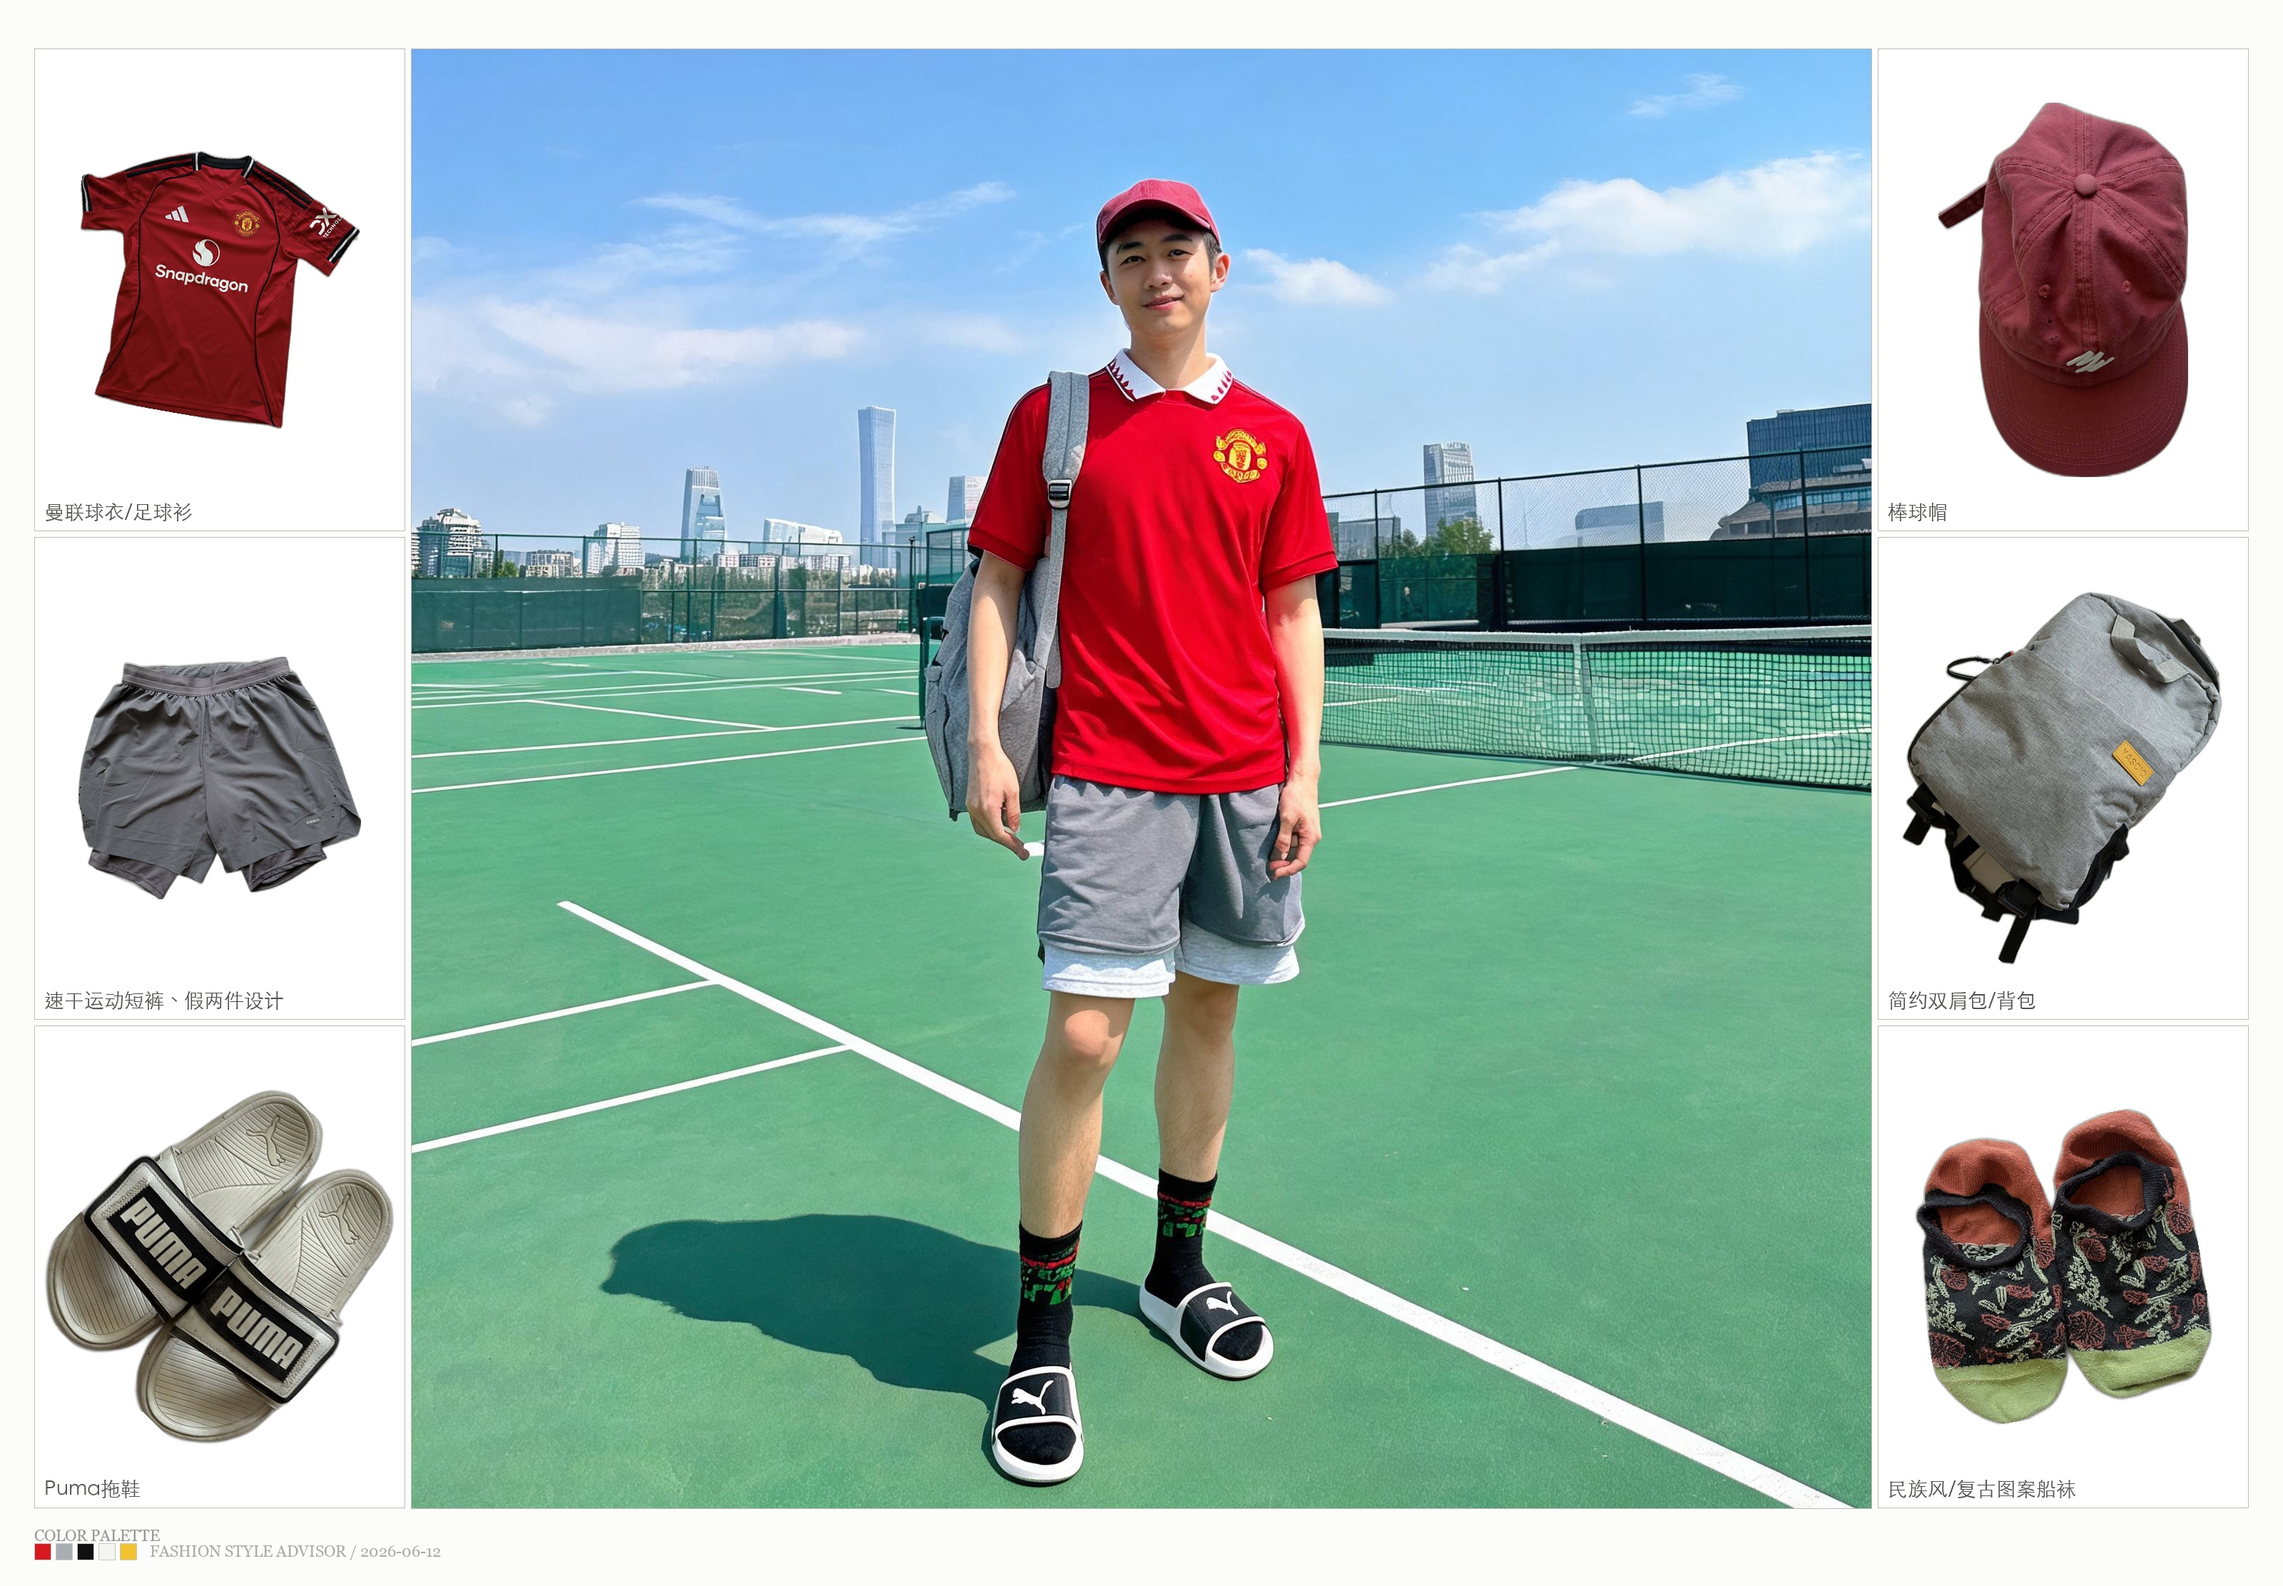
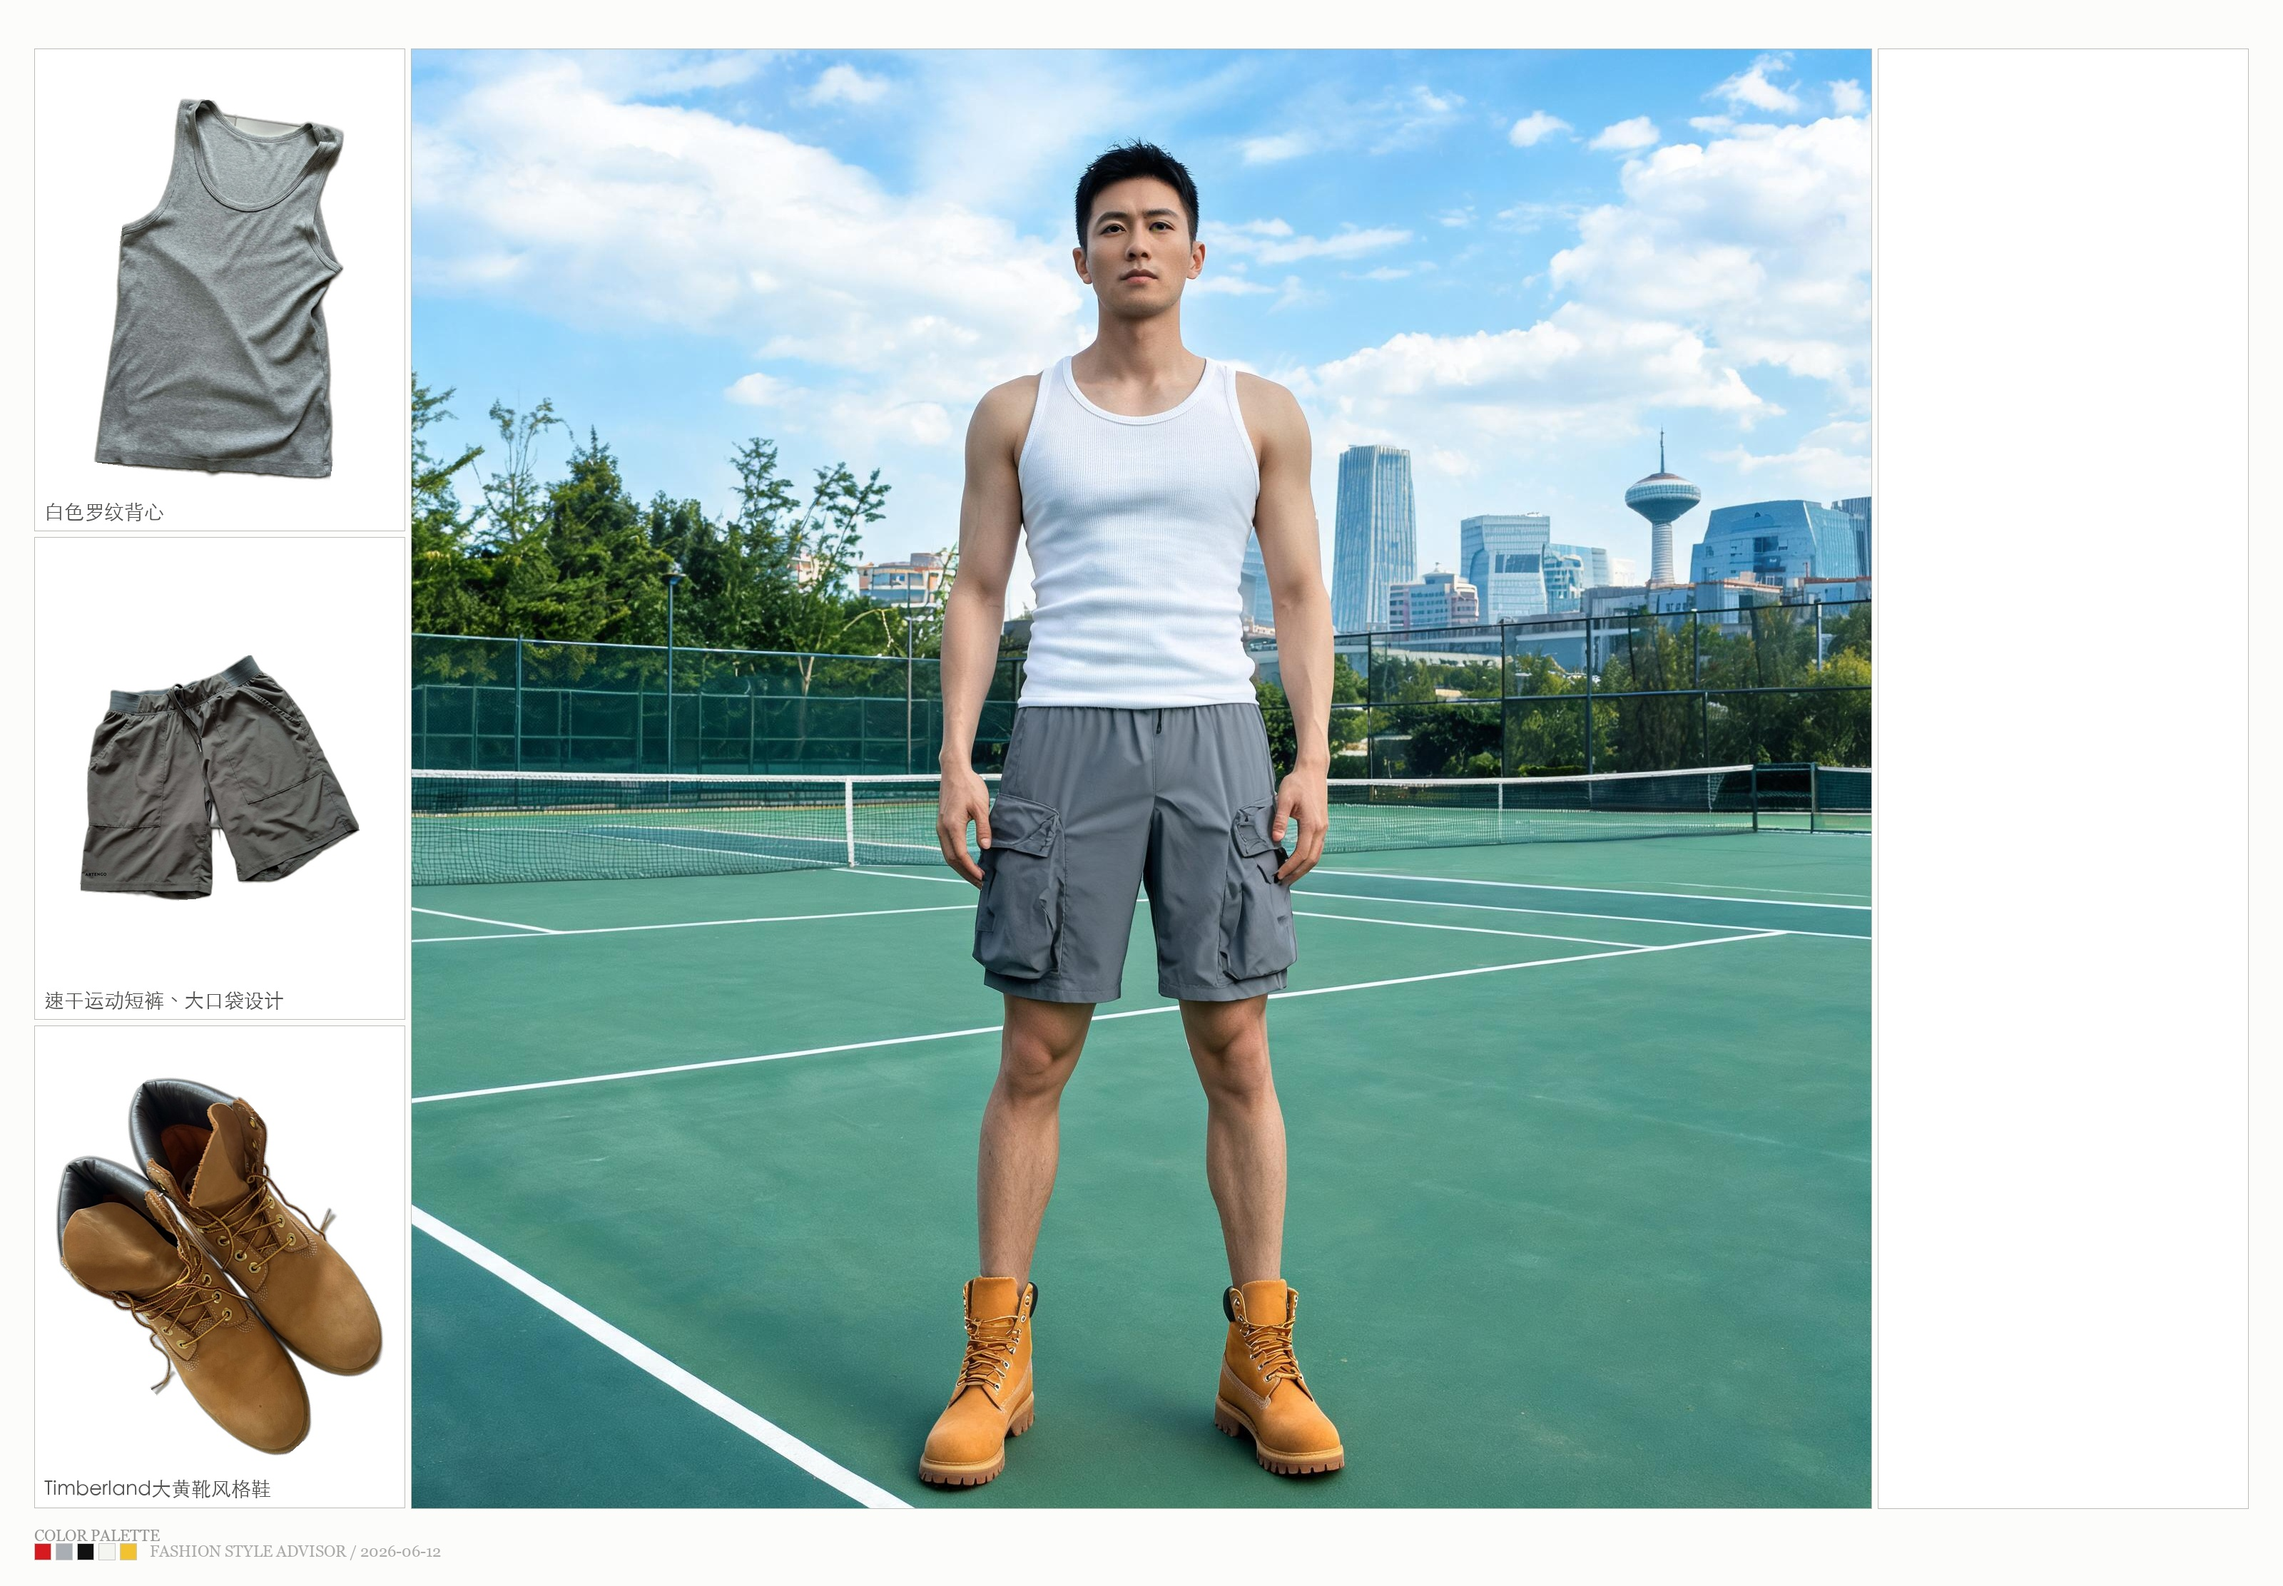
🎨 打网球穿搭 — 远程操控

diff --git a/outfits/2026-06-12_打网球穿搭/outfit.md b/outfits/2026-06-12_打网球穿搭/outfit.md
@@ -1,8 +1,8 @@
 ---
 date: 2026-06-12
 scene: 打网球穿搭
-weather: 北京6月中旬晴/多云，22-34°C，白天偏热且日晒强，建议选择速干、轻薄、防晒单品。
-style: 夏日运动网球风
+weather: 北京6月中旬晴/多云，22-34°C，白天炎热、紫外线强，优先轻薄透气与便于活动的单品。
+style: 夏日轻运动网球风
 ---
 
 # 2026-06-12 打网球穿搭
@@ -11,21 +11,18 @@ style: 夏日运动网球风
 
 | 品类 | ID | 单品 | 颜色 |
 |------|-----|------|------|
-| 上衣 | **TS-007** | 曼联球衣/足球衫 | 红色 |
-| 下装 | **SH-003** | 速干运动短裤、假两件设计 | 灰色 |
-| 鞋子 | **SHOE-010** | Puma拖鞋 | 白+黑 |
-| 帽子 | **HAT-002** | 棒球帽 | 紫红色/暗粉色 |
-| 包 | **BAG-002** | 简约双肩包/背包 | 麻灰色 |
-| 袜子 | **SOCK-003** | 民族风/复古图案船袜 | 黑+绿+红 |
+| 上衣 | **TANK-002** | 白色罗纹背心 | 白色 |
+| 下装 | **SH-005** | 速干运动短裤、大口袋设计 | 灰色 |
+| 鞋子 | **SHOE-007** | Timberland大黄靴风格鞋 | 黄色/小麦色 |
 
 ## 搭配理由
 
-红色球衣具备运动感和吸睛度，能衬托偏白肤色，也让偏瘦身形更有活力；灰色速干短裤轻便透气，适合高温下挥拍跑动。棒球帽提供基础遮阳，麻灰背包可装水和毛巾。由于未使用鞋款中仅剩拖鞋类，建议其用于场边休息，正式上场需另备专业网球鞋以保证安全。
+白色罗纹背心呼应网球的清爽感，露臂提升散热，适合北京34°C高温；灰色速干短裤轻便有口袋，方便放球并修饰偏瘦腿型。小麦色靴子作为今日唯一未用鞋款增加下盘量感，但更适合往返球场或低强度练习，正式上场建议换专业网球鞋。
 
 ## 配色逻辑
 
-红色上衣作为主视觉，灰色短裤与麻灰背包降低饱和度，黑白拖鞋保持清爽，紫红帽子与上衣形成同色系呼应。
+白色作为上半身主色，干净明亮并提气色；灰色短裤降低运动感的突兀度，形成清爽中性色基底；小麦黄鞋提供暖色重心，让整体不单薄。
 
 ## 风格关键词
 
-速干运动、网球场、红灰配色、夏日活力、轻量休闲
+白灰配色, 轻运动, 夏日网球, 清爽, 低饱和, 偏瘦修饰
